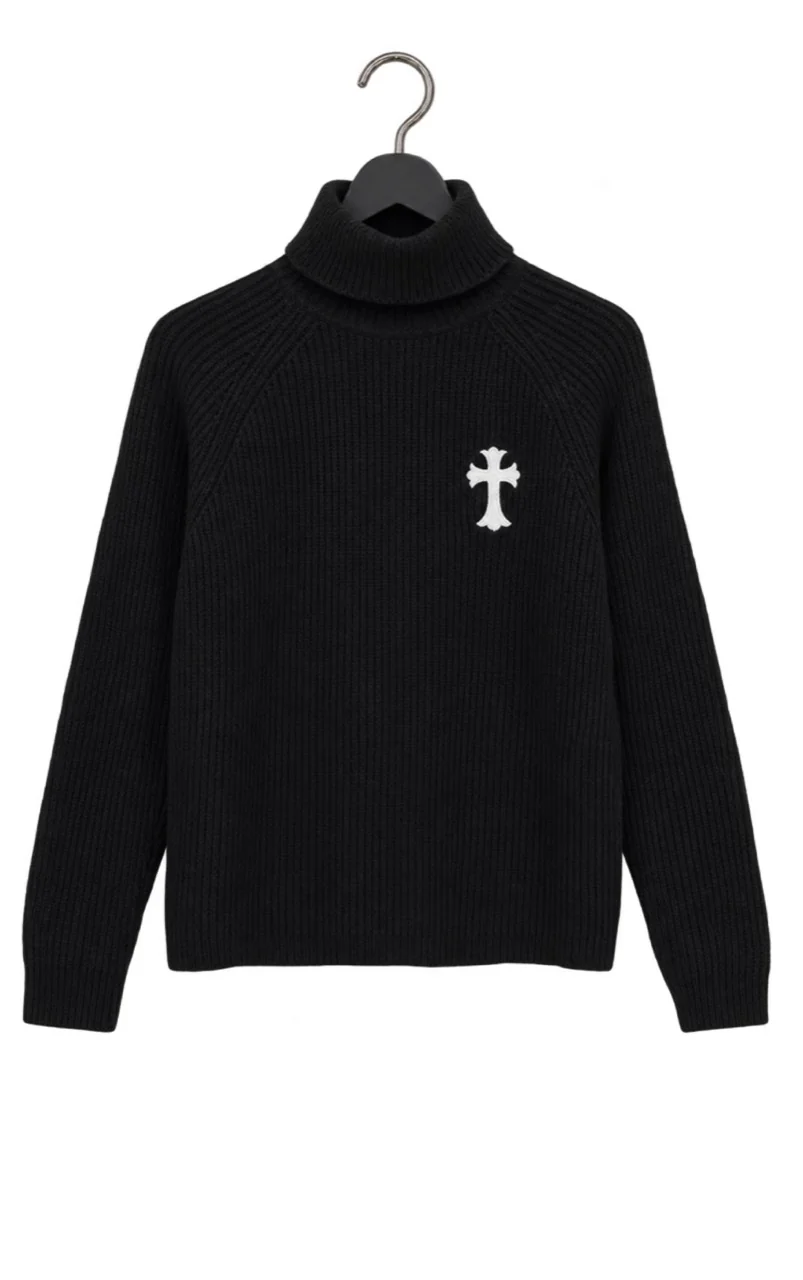
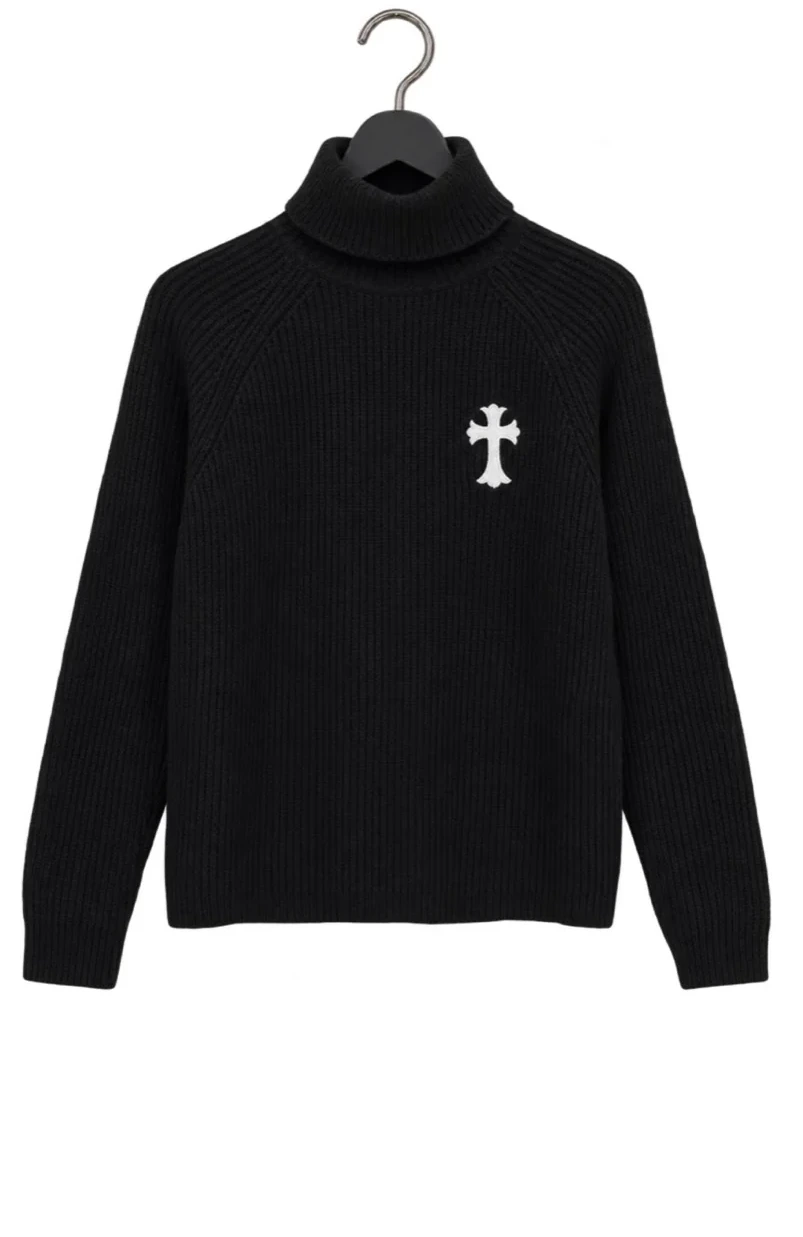
Update men's sales rail prices and rename Blue Paint Splatter -> Biker Jeans
- Add slashed oldPrice to Grey Jeans, Black Palm Trees Jeans, Light Blue
  Ripped Jeans, Biker Jeans (renamed), Bymarccc Red Sweatpants (men+women),
  World Is Yours T-Shirt, Bymarccc Logo Turtleneck, Plain Black Turtleneck
- Bymarccc Paris Jacket: 200->250 RON, oldPrice 700
- Star Denim Jacket: oldPrice corrected 500->700
- Light Blue Ripped Jeans: duplicated across sizes 36/38/40/42/44/46
- Fix Plain Black Turtleneck / Embroidered Cross Sweater hanging oversized
  and off the rope: their source photos had ~4% more top padding than the
  rest of the rail's convention; cropped to match and adjusted scale/ratios

Claude-Session: https://claude.ai/code/session_01S9cKy5g1AwDjzfqRU8tU8k

diff --git a/assets/women-sale-rail.js b/assets/women-sale-rail.js
@@ -3,7 +3,7 @@ if(!customElements.get('bym-women-sale-rail'))customElements.define('bym-women-s
  connectedCallback(){if(this._abort&&!this._abort.signal.aborted)return;const host=this,abort=this._abort=new AbortController(),root=this.shadowRoot||this.attachShadow({mode:'open'});root.innerHTML="<style>\n*{box-sizing:border-box}:host{margin:0;background:#fff;color:#171717;font-family:Arial,Helvetica,sans-serif}button{font:inherit;color:inherit;cursor:pointer}button:focus-visible{outline:2px solid #b51d43;outline-offset:5px}header{display:flex;align-items:center;justify-content:space-between;padding:24px 4vw;border-bottom:1px solid #ececec}.brand{font-size:20px;letter-spacing:3px;font-weight:800}.nav{display:flex;gap:25px;font-size:11px;letter-spacing:2px}.nav b{color:#be1d40}.top{text-align:center;padding:26px 20px 10px}.eyebrow{font-size:10px;letter-spacing:3px}.top h1{font-size:clamp(32px,4.5vw,66px);font-weight:400;letter-spacing:-2px;margin:16px 0}.top p{color:#777;font-size:12px;line-height:1.7;margin:0}.stage{position:relative;width:100%;height:550px;overflow:hidden;touch-action:pan-y;cursor:grab;isolation:isolate}.stage:active{cursor:grabbing}.rail{position:absolute;inset:0;width:100%;height:100%;pointer-events:none;z-index:1}.garment{position:absolute;left:0;top:0;background:none;border:0;padding:0;pointer-events:none;transform-origin:50% 2.5%;will-change:transform;mix-blend-mode:multiply;isolation:isolate}.garment img{position:absolute;inset:0;width:100%;height:100%;object-fit:contain;object-position:center top;pointer-events:none;user-select:none}.garment .back{opacity:0}.garment .tag{position:absolute;top:11%;left:50%;background:#fff;padding:2px 4px;font-size:8px;line-height:1.15;letter-spacing:.3px;border:1px solid #ddd;border-radius:4px;box-shadow:0 1px 2px #0001;white-space:nowrap;transform:translateX(-50%) rotate(-4deg)}.garment.active .tag{border-color:#222}.status{text-align:center;min-height:66px;padding:0 20px}.show-details{border:0;background:none;text-decoration:underline;font-size:10px;padding:7px 14px}.status strong{font-size:12px;font-weight:400;letter-spacing:1px}.price-old{color:#999;font-size:.8em;font-weight:400;margin-right:10px}.status p{font-size:16px;color:#171717;letter-spacing:1px;margin:10px 0;font-weight:600}.controls{display:flex;justify-content:center;gap:12px;margin:12px auto 32px}.controls button{border:1px solid #ddd;background:white;border-radius:50%;width:38px;height:38px}.controls button.pause{border-radius:25px;width:90px;font-size:10px;letter-spacing:1px}.bottom{margin:0 4vw;padding:22px 0;border-top:1px solid #eee;display:flex;justify-content:space-between;font-size:9px;letter-spacing:1px;color:#888}.note{text-align:center;font-size:10px;color:#aaa;padding:5px 20px 22px;line-height:1.6}dialog{border:0;background:white;width:min(880px,94vw);padding:20px;max-height:90vh;overflow:auto;box-shadow:0 20px 100px #0003}dialog::backdrop{background:#0005;backdrop-filter:blur(4px)}.close{position:absolute;right:16px;top:14px;border:0;background:white;font-size:22px;z-index:2}.detail{display:grid;grid-template-columns:1.1fr 1fr;align-items:center;gap:25px}.detail .picture{height:520px;width:100%;object-fit:contain}.detail h2{font-weight:400;font-size:27px;letter-spacing:-1px}.detail p{font-size:12px;color:#888;line-height:1.8}.detail .views{display:flex;gap:8px}.views button{border:1px solid #ddd;background:white;padding:10px;font-size:11px}.views button[aria-pressed=true]{border-color:#222}.detail .soon{margin-top:25px;padding:14px 0;border-top:1px solid #eee;font-size:11px}.thumbs{display:flex;justify-content:center;gap:8px;margin:10px auto 20px}.thumbs button{width:6px;height:6px;border:0;border-radius:50%;background:#ddd;padding:0}.thumbs button[aria-current=true]{background:#222;width:18px;border-radius:5px}@media(max-width:600px){header{padding:20px}.brand{font-size:16px}.nav{gap:12px;font-size:9px}.top{padding-top:24px}.top h1{letter-spacing:-1px}.stage{height:340px}.detail{grid-template-columns:1fr;gap:0}.detail .picture{height:42vh}.detail h2{font-size:22px}.detail p{margin:5px 0}.detail .soon{margin-top:15px}.bottom{font-size:8px;gap:15px}.top p{font-size:11px}.detail .eyebrow{margin-top:15px}}@media(prefers-reduced-motion:reduce){*{scroll-behavior:auto!important}}\n\n:host{display:block;width:100%;font-family:Arial,Helvetica,sans-serif}.product-name{display:block;margin:auto;border:0;border-bottom:1px solid currentColor;padding:0 0 5px;background:none;font-size:12px;letter-spacing:1px}.add-to-cart{display:block;margin:15px auto 6px;padding:12px 28px;border:1px solid #171717;background:#171717;color:#fff;font-size:11px;letter-spacing:1px}.cart-message{min-height:18px;text-align:center;font-size:11px;margin:5px}.status p{margin:10px 0}.top{padding-top:8px}.thumbs{padding:0 15px;flex-wrap:wrap}.detail .picture{cursor:pointer}.detail .soon{color:#171717}.close{width:38px;height:38px;border:1px solid #171717}.detail .eyebrow{letter-spacing:2px}.detail .add-to-cart{margin-left:0}@media(min-width:900px){.top{padding:6px 20px 4px}.garment .tag{top:9.2%;font-size:9.6px;padding:4.8px 8.4px}.status{min-height:0}.status .cart-message{min-height:0;margin:3px}.status .cart-message:empty{display:none}.thumbs{margin:12px auto 12px}}\n</style><main><div class=\"top\"><span class=\"eyebrow\">LAST PIECES / LIMITED STOCK</span></div><div class=\"stage\" aria-label=\"Sale collection on hangers\"><svg class=\"rail\" aria-hidden=\"true\"><defs><linearGradient id=\"steel\" x2=\"0\" y2=\"1\"><stop stop-color=\"#b5b5b5\"/><stop offset=\".4\" stop-color=\"#777\"/><stop offset=\"1\" stop-color=\"#aaa\"/></linearGradient></defs><path id=\"line\" fill=\"none\" stroke=\"url(#steel)\" stroke-width=\"7\"/></svg></div><div class=\"status\" aria-live=\"polite\"><button class=\"product-name\" type=\"button\" aria-label=\"View product details\"></button><p></p><button class=\"add-to-cart\" type=\"button\">ADD TO CART</button><div class=\"cart-message\" role=\"status\"></div></div><div class=\"thumbs\"></div></main><dialog><button class=\"close\" aria-label=\"Close\">\u00d7</button><div class=\"detail\"><img class=\"picture\" alt=\"\"><div><span class=\"eyebrow\"></span><h2></h2><div class=\"views\"></div><p class=\"soon\"></p><button class=\"add-to-cart\" type=\"button\">ADD TO CART</button><div class=\"cart-message\" role=\"status\"></div></div></div></dialog>";
  const listenWindow=(type,fn,options={})=>window.addEventListener(type,fn,{...options,signal:abort.signal});
 
-const womenProducts=[{"name": "HOT GIRLS BABY TOP WHITE", "images": ["/assets/img/women-sale-rail/piece-112.webp", "/assets/img/women-sale-rail/piece-107.webp"], "size": "XS\u2013S", "price": "150 RON", "oldPrice": "250 RON", "scale": 0.58, "ratios": [0.8764241893076249, 0.7703125], "cartId": "shopify:archive-hot-girls-baby-top-white-xs-s", "salePrice": 150}, {"name": "HOT GIRLS BABY TOP BLACK", "images": ["/assets/img/women-sale-rail/piece-113.webp", "/assets/img/women-sale-rail/piece-108.webp"], "size": "XS\u2013S", "price": "150 RON", "oldPrice": "250 RON", "scale": 0.58, "ratios": [0.8764241893076249, 0.7703125], "cartId": "shopify:archive-hot-girls-baby-top-black-xs-s", "salePrice": 150}, {"name": "BYMARCCC ART JACKET", "images": ["/assets/img/women-sale-rail/piece-99.webp", "/assets/img/women-sale-rail/piece-93.webp", "/assets/img/women-sale-rail/piece-94.webp"], "size": "S", "price": "500 RON", "oldPrice": "1500 RON", "scale": 0.72, "ratios": [1.1037527593818985, 0.66171875, 1.1037527593818985], "cartId": "shopify:archive-bymarccc-art-jacket-s", "salePrice": 500}, {"name": "BYMARCCC DENIM CORSET", "images": ["/assets/img/women-sale-rail/piece-81.webp", "/assets/img/women-sale-rail/piece-80.webp"], "size": "S", "price": "150 RON", "oldPrice": "350 RON", "scale": 0.58, "ratios": [0.75, 0.66640625], "cartId": "shopify:archive-bymarccc-denim-corset-s", "salePrice": 150}, {"name": "DELULU TURTLENECK", "images": ["/assets/img/women-sale-rail/piece-90.webp", "/assets/img/women-sale-rail/piece-89.webp"], "size": "M L", "price": "150 RON", "oldPrice": "400 RON", "scale": 0.72, "ratios": [0.75, 0.66640625], "cartId": "shopify:archive-delulu-turtleneck-m-l", "salePrice": 150}, {"name": "BYMARCCC PURPLE SWEATPANTS", "images": ["/assets/img/women-sale-rail/piece-103.webp", "/assets/img/women-sale-rail/piece-104.webp"], "size": "S", "price": "150 RON", "oldPrice": null, "scale": 1, "ratios": [0.66640625, 0.66640625], "cartId": "shopify:archive-bymarccc-purple-sweatpants-s", "salePrice": 150}, {"name": "WALKING ART BLACK", "images": ["/assets/img/women-sale-rail/piece-83.webp", "/assets/img/women-sale-rail/piece-84.webp"], "size": "34", "price": "200 RON", "oldPrice": "400 RON", "scale": 1, "ratios": [0.8, 0.8], "cartId": "shopify:archive-walking-art-black-34", "salePrice": 200}, {"name": "WALKING ART BLACK", "images": ["/assets/img/women-sale-rail/piece-83.webp", "/assets/img/women-sale-rail/piece-84.webp"], "size": "36", "price": "200 RON", "oldPrice": "400 RON", "scale": 1, "ratios": [0.8, 0.8], "cartId": "shopify:archive-walking-art-black-36", "salePrice": 200}, {"name": "WALKING ART BLUE", "images": ["/assets/img/women-sale-rail/piece-85.webp", "/assets/img/women-sale-rail/piece-86.webp"], "size": "38", "price": "200 RON", "oldPrice": "400 RON", "scale": 1, "ratios": [0.8, 0.8], "cartId": "shopify:archive-walking-art-blue-38", "salePrice": 200}, {"name": "TRANSPARENT JEAN", "images": ["/assets/img/women-sale-rail/piece-114.webp", "/assets/img/women-sale-rail/piece-115.webp"], "size": "38", "price": "200 RON", "oldPrice": "500 RON", "scale": 1, "ratios": [0.66796875, 0.66640625], "cartId": "shopify:archive-transparent-jean-38", "salePrice": 200}, {"name": "HOT GIRLS GREY", "images": ["/assets/img/women-sale-rail/piece-5.webp", "/assets/img/women-sale-rail/piece-6.webp"], "size": "34", "price": "150 RON", "oldPrice": "400 RON", "scale": 1, "ratios": [0.66640625, 0.66640625], "cartId": "shopify:archive-hot-girls-grey-34", "salePrice": 150}, {"name": "HOT GIRLS BLUE", "images": ["/assets/img/women-sale-rail/piece-8.webp", "/assets/img/women-sale-rail/piece-7.webp"], "size": "36", "price": "150 RON", "oldPrice": "400 RON", "scale": 1, "ratios": [0.66640625, 0.66640625], "cartId": "shopify:archive-hot-girls-blue-36", "salePrice": 150}, {"name": "NOT FROM PARIS", "images": ["/assets/img/women-sale-rail/piece-42.webp", "/assets/img/women-sale-rail/piece-44.webp"], "size": "36", "price": "150 RON", "oldPrice": "400 RON", "scale": 1, "ratios": [0.8, 0.8], "cartId": "shopify:archive-not-from-paris-36", "salePrice": 150}, {"name": "NOT FROM PARIS SHORTS", "images": ["/assets/img/women-sale-rail/piece-95.webp", "/assets/img/women-sale-rail/piece-96.webp"], "size": "36", "price": "150 RON", "oldPrice": "400 RON", "scale": 0.7, "ratios": [0.77109375, 0.77109375], "cartId": "shopify:archive-not-from-paris-shorts-36", "salePrice": 150}, {"name": "JUICY JEANS", "images": ["/assets/img/women-sale-rail/piece-47.webp", "/assets/img/women-sale-rail/piece-82.webp"], "size": "40", "price": "150 RON", "oldPrice": "400 RON", "scale": 1, "ratios": [0.7942811755361397, 0.66640625], "cartId": "shopify:archive-juicy-jeans-40", "salePrice": 150}, {"name": "TRANSPARENT JEAN", "images": ["/assets/img/women-sale-rail/piece-114.webp", "/assets/img/women-sale-rail/piece-115.webp"], "size": "40", "price": "200 RON", "oldPrice": "500 RON", "scale": 1, "ratios": [0.66796875, 0.66640625], "cartId": "shopify:archive-transparent-jean-40", "salePrice": 200}, {"name": "HANDPRINT JEANS", "images": ["/assets/img/women-sale-rail/piece-46.webp", "/assets/img/women-sale-rail/piece-45.webp"], "size": "42", "price": "150 RON", "oldPrice": "400 RON", "scale": 1, "ratios": [0.8, 0.7987220447284346], "cartId": "shopify:archive-handprint-jeans-42", "salePrice": 150}, {"name": "BYMARCCC CROSS JEANS", "images": ["/assets/img/women-sale-rail/piece-102.webp", "/assets/img/women-sale-rail/piece-50.webp"], "size": "42", "price": "200 RON", "oldPrice": "500 RON", "scale": 1, "ratios": [0.5859375, 0.66640625], "cartId": "shopify:archive-bymarccc-cross-jeans-42", "salePrice": 200}, {"name": "LACE JEANS", "images": ["/assets/img/women-sale-rail/piece-49.webp", "/assets/img/women-sale-rail/piece-97.webp"], "size": "44", "price": "200 RON", "oldPrice": "500 RON", "scale": 1, "ratios": [0.66640625, 0.66640625], "cartId": "shopify:archive-lace-jeans-44", "salePrice": 200}, {"name": "DELULU OVERCOAT", "images": ["/assets/img/women-sale-rail/piece-110.webp", "/assets/img/women-sale-rail/piece-109.webp", "/assets/img/women-sale-rail/piece-111.webp"], "size": "S\u2013M", "price": "250 RON", "oldPrice": "700 RON", "scale": 0.9, "ratios": [0.7671875, 0.6609375, 0.7671875], "cartId": "shopify:archive-delulu-overcoat-s-m", "salePrice": 250}, {"name": "ARTWORK PANTS", "images": ["/assets/img/women-sale-rail/men-artwork-pants-front.webp?v=21", "/assets/img/women-sale-rail/men-artwork-pants-angle.webp?v=21"], "size": "S", "price": "150 RON", "oldPrice": "450 RON", "scale": 1, "ratios": [0.62734375, 0.62734375], "cartId": "shopify:archive-men-artwork-pants", "salePrice": 150, "sideAngle": 42}, {"name": "RED CROSS T-SHIRT", "images": ["/assets/img/women-sale-rail/piece-91.webp", "/assets/img/women-sale-rail/piece-92.webp"], "size": "L", "price": "100 RON", "oldPrice": "250 RON", "scale": 0.72, "ratios": [0.75, 0.66640625], "cartId": "shopify:archive-red-cross-t-shirt-l", "salePrice": 100}, {"name": "NOT FROM PARIS POLO", "images": ["/assets/img/women-sale-rail/piece-79.webp", "/assets/img/women-sale-rail/piece-78.webp"], "size": "M", "price": "150 RON", "oldPrice": "250 RON", "scale": 0.7, "ratios": [0.75, 0.66640625], "cartId": "shopify:archive-not-from-paris-polo-m", "salePrice": 150}, {"name": "BYMARCCC PURPLE HOODIE", "images": ["/assets/img/women-sale-rail/piece-88.webp", "/assets/img/women-sale-rail/piece-87.webp", "/assets/img/women-sale-rail/piece-98.webp"], "size": "S", "price": "150 RON", "oldPrice": "500 RON", "scale": 0.72, "ratios": [0.75, 0.66640625, 0.75], "cartId": "shopify:archive-bymarccc-purple-hoodie-s-m", "salePrice": 150}, {"name": "BYMARCCC RED SWEATPANTS", "images": ["/assets/img/women-sale-rail/piece-105.webp", "/assets/img/women-sale-rail/piece-106.webp"], "size": "S", "price": "150 RON", "oldPrice": null, "scale": 1, "ratios": [0.66640625, 0.66640625], "cartId": "shopify:archive-bymarccc-red-sweatpants-s", "salePrice": 150}, {"name": "PAINTED PANTS", "images": ["/assets/img/women-sale-rail/men-painted-pants-front.webp", "/assets/img/women-sale-rail/men-painted-pants-angle.webp"], "size": "M", "price": "150 RON", "oldPrice": "400 RON", "scale": 1, "ratios": [0.62734375, 0.62734375], "cartId": "shopify:archive-men-painted-pants", "salePrice": 150, "fit": "(Fits 170\u2013185 cm, 60\u201375 kg)"}, {"name": "PAINTED PANTS", "images": ["/assets/img/women-sale-rail/men-painted-pants-front.webp", "/assets/img/women-sale-rail/men-painted-pants-angle.webp"], "size": "L", "price": "150 RON", "oldPrice": "400 RON", "scale": 1, "ratios": [0.62734375, 0.62734375], "cartId": "shopify:archive-men-painted-pants", "salePrice": 150, "fit": "(Fits 175\u2013190 cm, 75\u201385 kg)"}, {"name": "PAINTED SWEATPANTS", "images": ["/assets/img/women-sale-rail/piece-10.webp", "/assets/img/women-sale-rail/piece-9.webp"], "size": "L", "price": "200 RON", "oldPrice": "400 RON", "scale": 1, "ratios": [0.66640625, 0.66640625], "cartId": "shopify:archive-painted-sweatpants-l", "salePrice": 200}];
+const womenProducts=[{"name": "HOT GIRLS BABY TOP WHITE", "images": ["/assets/img/women-sale-rail/piece-112.webp", "/assets/img/women-sale-rail/piece-107.webp"], "size": "XS\u2013S", "price": "150 RON", "oldPrice": "250 RON", "scale": 0.58, "ratios": [0.8764241893076249, 0.7703125], "cartId": "shopify:archive-hot-girls-baby-top-white-xs-s", "salePrice": 150}, {"name": "HOT GIRLS BABY TOP BLACK", "images": ["/assets/img/women-sale-rail/piece-113.webp", "/assets/img/women-sale-rail/piece-108.webp"], "size": "XS\u2013S", "price": "150 RON", "oldPrice": "250 RON", "scale": 0.58, "ratios": [0.8764241893076249, 0.7703125], "cartId": "shopify:archive-hot-girls-baby-top-black-xs-s", "salePrice": 150}, {"name": "BYMARCCC ART JACKET", "images": ["/assets/img/women-sale-rail/piece-99.webp", "/assets/img/women-sale-rail/piece-93.webp", "/assets/img/women-sale-rail/piece-94.webp"], "size": "S", "price": "500 RON", "oldPrice": "1500 RON", "scale": 0.72, "ratios": [1.1037527593818985, 0.66171875, 1.1037527593818985], "cartId": "shopify:archive-bymarccc-art-jacket-s", "salePrice": 500}, {"name": "BYMARCCC DENIM CORSET", "images": ["/assets/img/women-sale-rail/piece-81.webp", "/assets/img/women-sale-rail/piece-80.webp"], "size": "S", "price": "150 RON", "oldPrice": "350 RON", "scale": 0.58, "ratios": [0.75, 0.66640625], "cartId": "shopify:archive-bymarccc-denim-corset-s", "salePrice": 150}, {"name": "DELULU TURTLENECK", "images": ["/assets/img/women-sale-rail/piece-90.webp", "/assets/img/women-sale-rail/piece-89.webp"], "size": "M L", "price": "150 RON", "oldPrice": "400 RON", "scale": 0.72, "ratios": [0.75, 0.66640625], "cartId": "shopify:archive-delulu-turtleneck-m-l", "salePrice": 150}, {"name": "BYMARCCC PURPLE SWEATPANTS", "images": ["/assets/img/women-sale-rail/piece-103.webp", "/assets/img/women-sale-rail/piece-104.webp"], "size": "S", "price": "150 RON", "oldPrice": null, "scale": 1, "ratios": [0.66640625, 0.66640625], "cartId": "shopify:archive-bymarccc-purple-sweatpants-s", "salePrice": 150}, {"name": "WALKING ART BLACK", "images": ["/assets/img/women-sale-rail/piece-83.webp", "/assets/img/women-sale-rail/piece-84.webp"], "size": "34", "price": "200 RON", "oldPrice": "400 RON", "scale": 1, "ratios": [0.8, 0.8], "cartId": "shopify:archive-walking-art-black-34", "salePrice": 200}, {"name": "WALKING ART BLACK", "images": ["/assets/img/women-sale-rail/piece-83.webp", "/assets/img/women-sale-rail/piece-84.webp"], "size": "36", "price": "200 RON", "oldPrice": "400 RON", "scale": 1, "ratios": [0.8, 0.8], "cartId": "shopify:archive-walking-art-black-36", "salePrice": 200}, {"name": "WALKING ART BLUE", "images": ["/assets/img/women-sale-rail/piece-85.webp", "/assets/img/women-sale-rail/piece-86.webp"], "size": "38", "price": "200 RON", "oldPrice": "400 RON", "scale": 1, "ratios": [0.8, 0.8], "cartId": "shopify:archive-walking-art-blue-38", "salePrice": 200}, {"name": "TRANSPARENT JEAN", "images": ["/assets/img/women-sale-rail/piece-114.webp", "/assets/img/women-sale-rail/piece-115.webp"], "size": "38", "price": "200 RON", "oldPrice": "500 RON", "scale": 1, "ratios": [0.66796875, 0.66640625], "cartId": "shopify:archive-transparent-jean-38", "salePrice": 200}, {"name": "HOT GIRLS GREY", "images": ["/assets/img/women-sale-rail/piece-5.webp", "/assets/img/women-sale-rail/piece-6.webp"], "size": "34", "price": "150 RON", "oldPrice": "400 RON", "scale": 1, "ratios": [0.66640625, 0.66640625], "cartId": "shopify:archive-hot-girls-grey-34", "salePrice": 150}, {"name": "HOT GIRLS BLUE", "images": ["/assets/img/women-sale-rail/piece-8.webp", "/assets/img/women-sale-rail/piece-7.webp"], "size": "36", "price": "150 RON", "oldPrice": "400 RON", "scale": 1, "ratios": [0.66640625, 0.66640625], "cartId": "shopify:archive-hot-girls-blue-36", "salePrice": 150}, {"name": "NOT FROM PARIS", "images": ["/assets/img/women-sale-rail/piece-42.webp", "/assets/img/women-sale-rail/piece-44.webp"], "size": "36", "price": "150 RON", "oldPrice": "400 RON", "scale": 1, "ratios": [0.8, 0.8], "cartId": "shopify:archive-not-from-paris-36", "salePrice": 150}, {"name": "NOT FROM PARIS SHORTS", "images": ["/assets/img/women-sale-rail/piece-95.webp", "/assets/img/women-sale-rail/piece-96.webp"], "size": "36", "price": "150 RON", "oldPrice": "400 RON", "scale": 0.7, "ratios": [0.77109375, 0.77109375], "cartId": "shopify:archive-not-from-paris-shorts-36", "salePrice": 150}, {"name": "JUICY JEANS", "images": ["/assets/img/women-sale-rail/piece-47.webp", "/assets/img/women-sale-rail/piece-82.webp"], "size": "40", "price": "150 RON", "oldPrice": "400 RON", "scale": 1, "ratios": [0.7942811755361397, 0.66640625], "cartId": "shopify:archive-juicy-jeans-40", "salePrice": 150}, {"name": "TRANSPARENT JEAN", "images": ["/assets/img/women-sale-rail/piece-114.webp", "/assets/img/women-sale-rail/piece-115.webp"], "size": "40", "price": "200 RON", "oldPrice": "500 RON", "scale": 1, "ratios": [0.66796875, 0.66640625], "cartId": "shopify:archive-transparent-jean-40", "salePrice": 200}, {"name": "HANDPRINT JEANS", "images": ["/assets/img/women-sale-rail/piece-46.webp", "/assets/img/women-sale-rail/piece-45.webp"], "size": "42", "price": "150 RON", "oldPrice": "400 RON", "scale": 1, "ratios": [0.8, 0.7987220447284346], "cartId": "shopify:archive-handprint-jeans-42", "salePrice": 150}, {"name": "BYMARCCC CROSS JEANS", "images": ["/assets/img/women-sale-rail/piece-102.webp", "/assets/img/women-sale-rail/piece-50.webp"], "size": "42", "price": "200 RON", "oldPrice": "500 RON", "scale": 1, "ratios": [0.5859375, 0.66640625], "cartId": "shopify:archive-bymarccc-cross-jeans-42", "salePrice": 200}, {"name": "LACE JEANS", "images": ["/assets/img/women-sale-rail/piece-49.webp", "/assets/img/women-sale-rail/piece-97.webp"], "size": "44", "price": "200 RON", "oldPrice": "500 RON", "scale": 1, "ratios": [0.66640625, 0.66640625], "cartId": "shopify:archive-lace-jeans-44", "salePrice": 200}, {"name": "DELULU OVERCOAT", "images": ["/assets/img/women-sale-rail/piece-110.webp", "/assets/img/women-sale-rail/piece-109.webp", "/assets/img/women-sale-rail/piece-111.webp"], "size": "S\u2013M", "price": "250 RON", "oldPrice": "700 RON", "scale": 0.9, "ratios": [0.7671875, 0.6609375, 0.7671875], "cartId": "shopify:archive-delulu-overcoat-s-m", "salePrice": 250}, {"name": "ARTWORK PANTS", "images": ["/assets/img/women-sale-rail/men-artwork-pants-front.webp?v=21", "/assets/img/women-sale-rail/men-artwork-pants-angle.webp?v=21"], "size": "S", "price": "150 RON", "oldPrice": "450 RON", "scale": 1, "ratios": [0.62734375, 0.62734375], "cartId": "shopify:archive-men-artwork-pants", "salePrice": 150, "sideAngle": 42}, {"name": "RED CROSS T-SHIRT", "images": ["/assets/img/women-sale-rail/piece-91.webp", "/assets/img/women-sale-rail/piece-92.webp"], "size": "L", "price": "100 RON", "oldPrice": "250 RON", "scale": 0.72, "ratios": [0.75, 0.66640625], "cartId": "shopify:archive-red-cross-t-shirt-l", "salePrice": 100}, {"name": "NOT FROM PARIS POLO", "images": ["/assets/img/women-sale-rail/piece-79.webp", "/assets/img/women-sale-rail/piece-78.webp"], "size": "M", "price": "150 RON", "oldPrice": "250 RON", "scale": 0.7, "ratios": [0.75, 0.66640625], "cartId": "shopify:archive-not-from-paris-polo-m", "salePrice": 150}, {"name": "BYMARCCC PURPLE HOODIE", "images": ["/assets/img/women-sale-rail/piece-88.webp", "/assets/img/women-sale-rail/piece-87.webp", "/assets/img/women-sale-rail/piece-98.webp"], "size": "S", "price": "150 RON", "oldPrice": "500 RON", "scale": 0.72, "ratios": [0.75, 0.66640625, 0.75], "cartId": "shopify:archive-bymarccc-purple-hoodie-s-m", "salePrice": 150}, {"name": "BYMARCCC RED SWEATPANTS", "images": ["/assets/img/women-sale-rail/piece-105.webp", "/assets/img/women-sale-rail/piece-106.webp"], "size": "S", "price": "150 RON", "oldPrice": "400 RON", "scale": 1, "ratios": [0.66640625, 0.66640625], "cartId": "shopify:archive-bymarccc-red-sweatpants-s", "salePrice": 150}, {"name": "PAINTED PANTS", "images": ["/assets/img/women-sale-rail/men-painted-pants-front.webp", "/assets/img/women-sale-rail/men-painted-pants-angle.webp"], "size": "M", "price": "150 RON", "oldPrice": "400 RON", "scale": 1, "ratios": [0.62734375, 0.62734375], "cartId": "shopify:archive-men-painted-pants", "salePrice": 150, "fit": "(Fits 170\u2013185 cm, 60\u201375 kg)"}, {"name": "PAINTED PANTS", "images": ["/assets/img/women-sale-rail/men-painted-pants-front.webp", "/assets/img/women-sale-rail/men-painted-pants-angle.webp"], "size": "L", "price": "150 RON", "oldPrice": "400 RON", "scale": 1, "ratios": [0.62734375, 0.62734375], "cartId": "shopify:archive-men-painted-pants", "salePrice": 150, "fit": "(Fits 175\u2013190 cm, 75\u201385 kg)"}, {"name": "PAINTED SWEATPANTS", "images": ["/assets/img/women-sale-rail/piece-10.webp", "/assets/img/women-sale-rail/piece-9.webp"], "size": "L", "price": "200 RON", "oldPrice": "400 RON", "scale": 1, "ratios": [0.66640625, 0.66640625], "cartId": "shopify:archive-painted-sweatpants-l", "salePrice": 200}];
 const menProducts=[
   {"name": "PAINTED PANTS", "images": ["/assets/img/women-sale-rail/men-painted-pants-front.webp", "/assets/img/women-sale-rail/men-painted-pants-angle.webp"], "size": "M", "price": "150 RON", "oldPrice": "400 RON", "scale": 1, "ratios": [0.62734375, 0.62734375], "cartId": "shopify:archive-men-painted-pants", "salePrice": 150, "fit": "(Fits 170\u2013185 cm, 60\u201375 kg)"},
   {"name": "PAINTED PANTS", "images": ["/assets/img/women-sale-rail/men-painted-pants-front.webp", "/assets/img/women-sale-rail/men-painted-pants-angle.webp"], "size": "L", "price": "150 RON", "oldPrice": "400 RON", "scale": 1, "ratios": [0.62734375, 0.62734375], "cartId": "shopify:archive-men-painted-pants", "salePrice": 150, "fit": "(Fits 175\u2013190 cm, 75\u201385 kg)"},
@@ -17,31 +17,31 @@ const menProducts=[
   {"name": "CARPENTER JEANS", "images": ["/assets/img/women-sale-rail/men-carpenter-jeans-front.webp", "/assets/img/women-sale-rail/men-carpenter-jeans-angle.webp"], "size": "40", "price": "200 RON", "oldPrice": "500 RON", "scale": 1, "ratios": [0.62734375, 0.62734375], "cartId": "shopify:archive-men-carpenter-jeans", "salePrice": 200, "fit": "(Fits 170\u2013180 cm, 55\u201363 kg)"},
   {"name": "DISTRESSED JEANS", "images": ["/assets/img/women-sale-rail/men-distressed-jeans-front.webp", "/assets/img/women-sale-rail/men-distressed-jeans-angle.webp"], "size": "40", "price": "150 RON", "oldPrice": "500 RON", "scale": 1, "ratios": [0.62734375, 0.62734375], "cartId": "shopify:archive-men-distressed-jeans", "salePrice": 150, "fit": "(Fits 170\u2013180 cm, 55\u201363 kg)"},
   {"name": "ART DEPT JEANS", "images": ["/assets/img/women-sale-rail/men-art-dept-jeans-front.webp", "/assets/img/women-sale-rail/men-art-dept-jeans-angle.webp"], "size": "40", "price": "200 RON", "oldPrice": "500 RON", "scale": 1, "ratios": [0.62734375, 0.62734375], "cartId": "bymarccc:sale-art-dept-jeans", "salePrice": 200, "fit": "(Fits 170\u2013180 cm, 55\u201363 kg)"},
-  {"name": "GREY JEANS", "images": ["/assets/img/women-sale-rail/men-grey-jeans-front.webp", "/assets/img/women-sale-rail/men-grey-jeans-angle.webp"], "size": "40", "price": "200 RON", "oldPrice": null, "scale": 1, "ratios": [0.62734375, 0.62734375], "cartId": "shopify:archive-men-grey-jeans", "salePrice": 200},
+  {"name": "GREY JEANS", "images": ["/assets/img/women-sale-rail/men-grey-jeans-front.webp", "/assets/img/women-sale-rail/men-grey-jeans-angle.webp"], "size": "40", "price": "200 RON", "oldPrice": "450 RON", "scale": 1, "ratios": [0.62734375, 0.62734375], "cartId": "shopify:archive-men-grey-jeans", "salePrice": 200},
   {"name": "PINK STRIPED JEANS", "images": ["/assets/img/women-sale-rail/men-pink-striped-jeans-front.webp", "/assets/img/women-sale-rail/men-pink-striped-jeans-angle.webp", "/assets/img/women-sale-rail/men-pink-striped-jeans-back.webp"], "size": "40", "price": "200 RON", "oldPrice": "500 RON", "scale": 1, "ratios": [0.62734375, 0.62734375, 0.62734375], "cartId": "bymarccc:sale-pink-striped-jeans", "salePrice": 200},
   {"name": "CROSS PATCH JEANS", "images": ["/assets/img/women-sale-rail/men-white-cross-jeans-front.webp", "/assets/img/women-sale-rail/men-white-cross-jeans-angle.webp"], "size": "40", "price": "200 RON", "oldPrice": "500 RON", "scale": 1, "ratios": [0.62734375, 0.62734375], "cartId": "bymarccc:sale-cross-patch-jeans", "salePrice": 200},
   {"name": "GLITTER CROSSES RELAXED JEANS", "images": ["/assets/img/women-sale-rail/men-glitter-crosses-jeans-front.webp", "/assets/img/women-sale-rail/men-glitter-crosses-jeans-angle.webp", "/assets/img/women-sale-rail/men-glitter-crosses-jeans-other-angle.webp"], "size": "40", "price": "200 RON", "oldPrice": "500 RON", "scale": 1, "ratios": [0.62734375, 0.62734375, 0.66640625], "cartId": "bymarccc:sale-glitter-crosses-relaxed-jeans", "salePrice": 200, "viewLabels": ["Front", "Side", "Side 2"]},
-  {"name": "BLACK PALM TREES JEANS", "images": ["/assets/img/women-sale-rail/men-black-palm-trees-jeans-front.webp", "/assets/img/women-sale-rail/men-black-palm-trees-jeans-angle.webp", "/assets/img/women-sale-rail/men-black-palm-trees-jeans-back.webp"], "size": "40", "price": "200 RON", "oldPrice": null, "scale": 1, "ratios": [0.62734375, 0.62734375, 0.62734375], "cartId": "shopify:archive-men-black-palm-trees-jeans", "salePrice": 200},
+  {"name": "BLACK PALM TREES JEANS", "images": ["/assets/img/women-sale-rail/men-black-palm-trees-jeans-front.webp", "/assets/img/women-sale-rail/men-black-palm-trees-jeans-angle.webp", "/assets/img/women-sale-rail/men-black-palm-trees-jeans-back.webp"], "size": "40", "price": "200 RON", "oldPrice": "500 RON", "scale": 1, "ratios": [0.62734375, 0.62734375, 0.62734375], "cartId": "shopify:archive-men-black-palm-trees-jeans", "salePrice": 200},
   {"name": "SWAROVSKI JEANS", "images": ["/assets/img/women-sale-rail/men-swarovski-jeans-front.webp", "/assets/img/women-sale-rail/men-swarovski-jeans-angle.webp"], "size": "40", "price": "200 RON", "oldPrice": "500 RON", "scale": 1, "ratios": [0.62734375, 0.62734375], "cartId": "bymarccc:sale-studded-patch-jeans", "salePrice": 200},
   {"name": "STAR JEANS", "images": ["/assets/img/women-sale-rail/men-star-jeans-front.webp", "/assets/img/women-sale-rail/men-star-jeans-angle.webp", "/assets/img/women-sale-rail/men-star-jeans-back.webp"], "size": "40", "price": "200 RON", "oldPrice": "500 RON", "scale": 1, "ratios": [0.62734375, 0.62734375, 0.62734375], "cartId": "bymarccc:sale-star-jeans", "salePrice": 200},
   {"name": "BLUE STRIPED JEANS", "images": ["/assets/img/women-sale-rail/men-blue-striped-jeans-front.webp", "/assets/img/women-sale-rail/men-blue-striped-jeans-angle.webp"], "size": "40", "price": "200 RON", "oldPrice": "500 RON", "scale": 1, "ratios": [0.62734375, 0.62734375], "cartId": "bymarccc:sale-blue-striped-jeans", "salePrice": 200},
   {"name": "PALM TREES JEANS", "images": ["/assets/img/women-sale-rail/men-palm-trees-jeans-front.webp", "/assets/img/women-sale-rail/men-palm-trees-jeans-angle.webp", "/assets/img/women-sale-rail/men-palm-trees-jeans-back.webp"], "size": "40", "price": "200 RON", "oldPrice": "500 RON", "scale": 1, "ratios": [0.62734375, 0.62734375, 0.62734375], "cartId": "bymarccc:sale-palm-tree-jeans", "salePrice": 200},
-  {"name": "LIGHT BLUE RIPPED JEANS", "images": ["/assets/img/women-sale-rail/men-light-blue-ripped-jeans-front.webp", "/assets/img/women-sale-rail/men-light-blue-ripped-jeans-angle.webp", "/assets/img/women-sale-rail/men-light-blue-ripped-jeans-front-alt.webp"], "size": "40", "price": "200 RON", "oldPrice": null, "scale": 1, "ratios": [0.62734375, 0.66640625, 0.66640625], "cartId": "shopify:archive-men-light-blue-ripped-jeans", "salePrice": 200, "viewLabels": ["Front", "Side", "Front 2"]},
-  {"name": "BLUE PAINT SPLATTER JEANS", "images": ["/assets/img/women-sale-rail/men-blue-paint-splatter-jeans-front.webp", "/assets/img/women-sale-rail/men-blue-paint-splatter-jeans-angle.webp"], "size": "40", "price": "200 RON", "oldPrice": null, "scale": 1, "ratios": [0.62734375, 0.62734375], "cartId": "shopify:archive-men-blue-paint-splatter-jeans", "salePrice": 200},
+  {"name": "LIGHT BLUE RIPPED JEANS", "images": ["/assets/img/women-sale-rail/men-light-blue-ripped-jeans-front.webp", "/assets/img/women-sale-rail/men-light-blue-ripped-jeans-angle.webp", "/assets/img/women-sale-rail/men-light-blue-ripped-jeans-front-alt.webp"], "size": "36", "price": "200 RON", "oldPrice": "500 RON", "scale": 1, "ratios": [0.62734375, 0.66640625, 0.66640625], "cartId": "shopify:archive-men-light-blue-ripped-jeans-36", "salePrice": 200, "viewLabels": ["Front", "Side", "Front 2"]}, {"name": "LIGHT BLUE RIPPED JEANS", "images": ["/assets/img/women-sale-rail/men-light-blue-ripped-jeans-front.webp", "/assets/img/women-sale-rail/men-light-blue-ripped-jeans-angle.webp", "/assets/img/women-sale-rail/men-light-blue-ripped-jeans-front-alt.webp"], "size": "38", "price": "200 RON", "oldPrice": "500 RON", "scale": 1, "ratios": [0.62734375, 0.66640625, 0.66640625], "cartId": "shopify:archive-men-light-blue-ripped-jeans-38", "salePrice": 200, "viewLabels": ["Front", "Side", "Front 2"]}, {"name": "LIGHT BLUE RIPPED JEANS", "images": ["/assets/img/women-sale-rail/men-light-blue-ripped-jeans-front.webp", "/assets/img/women-sale-rail/men-light-blue-ripped-jeans-angle.webp", "/assets/img/women-sale-rail/men-light-blue-ripped-jeans-front-alt.webp"], "size": "40", "price": "200 RON", "oldPrice": "500 RON", "scale": 1, "ratios": [0.62734375, 0.66640625, 0.66640625], "cartId": "shopify:archive-men-light-blue-ripped-jeans-40", "salePrice": 200, "viewLabels": ["Front", "Side", "Front 2"]}, {"name": "LIGHT BLUE RIPPED JEANS", "images": ["/assets/img/women-sale-rail/men-light-blue-ripped-jeans-front.webp", "/assets/img/women-sale-rail/men-light-blue-ripped-jeans-angle.webp", "/assets/img/women-sale-rail/men-light-blue-ripped-jeans-front-alt.webp"], "size": "42", "price": "200 RON", "oldPrice": "500 RON", "scale": 1, "ratios": [0.62734375, 0.66640625, 0.66640625], "cartId": "shopify:archive-men-light-blue-ripped-jeans-42", "salePrice": 200, "viewLabels": ["Front", "Side", "Front 2"]}, {"name": "LIGHT BLUE RIPPED JEANS", "images": ["/assets/img/women-sale-rail/men-light-blue-ripped-jeans-front.webp", "/assets/img/women-sale-rail/men-light-blue-ripped-jeans-angle.webp", "/assets/img/women-sale-rail/men-light-blue-ripped-jeans-front-alt.webp"], "size": "44", "price": "200 RON", "oldPrice": "500 RON", "scale": 1, "ratios": [0.62734375, 0.66640625, 0.66640625], "cartId": "shopify:archive-men-light-blue-ripped-jeans-44", "salePrice": 200, "viewLabels": ["Front", "Side", "Front 2"]}, {"name": "LIGHT BLUE RIPPED JEANS", "images": ["/assets/img/women-sale-rail/men-light-blue-ripped-jeans-front.webp", "/assets/img/women-sale-rail/men-light-blue-ripped-jeans-angle.webp", "/assets/img/women-sale-rail/men-light-blue-ripped-jeans-front-alt.webp"], "size": "46", "price": "200 RON", "oldPrice": "500 RON", "scale": 1, "ratios": [0.62734375, 0.66640625, 0.66640625], "cartId": "shopify:archive-men-light-blue-ripped-jeans-46", "salePrice": 200, "viewLabels": ["Front", "Side", "Front 2"]},
+  {"name": "BIKER JEANS", "images": ["/assets/img/women-sale-rail/men-blue-paint-splatter-jeans-front.webp", "/assets/img/women-sale-rail/men-blue-paint-splatter-jeans-angle.webp"], "size": "40", "price": "200 RON", "oldPrice": "600 RON", "scale": 1, "ratios": [0.62734375, 0.62734375], "cartId": "shopify:archive-men-blue-paint-splatter-jeans", "salePrice": 200},
   {"name": "CROSS WAIST PAINTED SWEATPANTS", "images": ["/assets/img/women-sale-rail/men-cross-waist-sweatpants-front.webp", "/assets/img/women-sale-rail/men-cross-waist-sweatpants-angle.webp", "/assets/img/women-sale-rail/men-cross-waist-sweatpants-back.webp"], "size": "S", "price": "150 RON", "oldPrice": null, "scale": 1, "ratios": [0.62734375, 0.62734375, 0.62734375], "cartId": "shopify:archive-men-cross-waist-sweatpants", "salePrice": 150, "fit": "(Fits 170\u2013185 cm, 50\u201364 kg)"},
   {"name": "NOT FROM PARIS SWEATPANTS", "images": ["/assets/img/women-sale-rail/men-not-from-paris-sweatpants-front.webp"], "size": "M", "price": "150 RON", "oldPrice": null, "scale": 1, "ratios": [0.62734375], "cartId": "shopify:archive-men-not-from-paris-sweatpants", "salePrice": 150},
   {"name": "ARTWORK PANTS", "images": ["/assets/img/women-sale-rail/men-artwork-pants-front.webp?v=21", "/assets/img/women-sale-rail/men-artwork-pants-angle.webp?v=21"], "size": "S", "price": "150 RON", "oldPrice": "450 RON", "scale": 1, "ratios": [0.62734375, 0.62734375], "cartId": "shopify:archive-men-artwork-pants", "salePrice": 150, "sideAngle": 42, "fit": "(Fits 167\u2013183 cm, 50\u201364 kg)"},
   {"name": "RED CROSS T-SHIRT", "images": ["/assets/img/women-sale-rail/piece-91.webp", "/assets/img/women-sale-rail/piece-92.webp"], "size": "L", "price": "100 RON", "oldPrice": "250 RON", "scale": 0.72, "ratios": [0.75, 0.66640625], "cartId": "shopify:archive-red-cross-t-shirt-l", "salePrice": 100, "fit": "(Fits 175\u2013188 cm, 64\u201385 kg)"},
   {"name": "NOT FROM PARIS POLO", "images": ["/assets/img/women-sale-rail/piece-79.webp", "/assets/img/women-sale-rail/piece-78.webp"], "size": "M", "price": "150 RON", "oldPrice": "250 RON", "scale": 0.7, "ratios": [0.75, 0.66640625], "cartId": "shopify:archive-not-from-paris-polo-m", "salePrice": 150, "fit": "(Fits 170\u2013185 cm, 60\u201375 kg)"},
   {"name": "BYMARCCC PURPLE HOODIE", "images": ["/assets/img/women-sale-rail/piece-88.webp", "/assets/img/women-sale-rail/piece-87.webp", "/assets/img/women-sale-rail/piece-98.webp"], "size": "S", "price": "150 RON", "oldPrice": "500 RON", "scale": 0.72, "ratios": [0.75, 0.66640625, 0.75], "cartId": "shopify:archive-bymarccc-purple-hoodie-s-m", "salePrice": 150, "fit": "(Fits 170\u2013180 cm, 50\u201360 kg)"},
-  {"name": "BYMARCCC RED SWEATPANTS", "images": ["/assets/img/women-sale-rail/piece-105.webp", "/assets/img/women-sale-rail/piece-106.webp"], "size": "S", "price": "150 RON", "oldPrice": null, "scale": 1, "ratios": [0.66640625, 0.66640625], "cartId": "shopify:archive-bymarccc-red-sweatpants-s", "salePrice": 150, "fit": "(Fits 170\u2013180 cm, 50\u201360 kg)"},
+  {"name": "BYMARCCC RED SWEATPANTS", "images": ["/assets/img/women-sale-rail/piece-105.webp", "/assets/img/women-sale-rail/piece-106.webp"], "size": "S", "price": "150 RON", "oldPrice": "400 RON", "scale": 1, "ratios": [0.66640625, 0.66640625], "cartId": "shopify:archive-bymarccc-red-sweatpants-s", "salePrice": 150, "fit": "(Fits 170\u2013180 cm, 50\u201360 kg)"},
   {"name": "PAINTED SWEATPANTS", "images": ["/assets/img/women-sale-rail/piece-10.webp", "/assets/img/women-sale-rail/piece-9.webp"], "size": "L", "price": "200 RON", "oldPrice": "400 RON", "scale": 1, "ratios": [0.66640625, 0.66640625], "cartId": "shopify:archive-painted-sweatpants-l", "salePrice": 200, "fit": "(Fits 180\u2013190 cm, 75\u201385 kg)"},
-  {"name": "BYMARCCC PARIS JACKET", "images": ["/assets/img/women-sale-rail/men-bymarccc-paris-jacket-front.webp", "/assets/img/women-sale-rail/men-bymarccc-paris-jacket-angle.webp"], "size": "M", "price": "200 RON", "oldPrice": null, "scale": 0.7, "ratios": [1.1015490533562822, 1.1015490533562822], "cartId": "shopify:archive-men-bymarccc-paris-jacket", "salePrice": 200},
-  {"name": "WORLD IS YOURS T-SHIRT", "images": ["/assets/img/women-sale-rail/men-world-is-yours-tshirt-front.webp", "/assets/img/women-sale-rail/men-world-is-yours-tshirt-angle.webp", "/assets/img/women-sale-rail/men-world-is-yours-tshirt-back.webp"], "size": "M", "price": "100 RON", "oldPrice": null, "scale": 0.67, "ratios": [1.1015490533562822, 0.66640625, 1.1015490533562822], "cartId": "shopify:archive-men-world-is-yours-tshirt", "salePrice": 100},
-  {"name": "STAR DENIM JACKET", "images": ["/assets/img/women-sale-rail/men-star-denim-jacket-front.webp", "/assets/img/women-sale-rail/men-star-denim-jacket-angle.webp"], "size": "M", "price": "200 RON", "oldPrice": "500 RON", "scale": 0.7, "ratios": [1.1015490533562822, 1.1015490533562822], "cartId": "bymarccc:sale-star-denim-jacket", "salePrice": 200},
-  {"name": "BYMARCCC LOGO TURTLENECK", "images": ["/assets/img/women-sale-rail/men-logo-turtleneck-front.webp", "/assets/img/women-sale-rail/men-logo-turtleneck-angle.webp"], "size": "M", "price": "150 RON", "oldPrice": null, "scale": 0.69, "ratios": [1.1015490533562822, 1.1015490533562822], "cartId": "shopify:archive-men-logo-turtleneck", "salePrice": 150},
-  {"name": "EMBROIDERED CROSS SWEATER", "images": ["/assets/img/women-sale-rail/men-embroidered-cross-sweater-front.webp", "/assets/img/women-sale-rail/men-embroidered-cross-sweater-angle.webp"], "size": "M", "price": "150 RON", "oldPrice": "400 RON", "scale": 0.88, "ratios": [0.62734375, 0.62734375], "cartId": "bymarccc:embroidered-cross-turtleneck", "salePrice": 150},
-  {"name": "PLAIN BLACK TURTLENECK", "images": ["/assets/img/women-sale-rail/men-plain-black-turtleneck-front.webp", "/assets/img/women-sale-rail/men-plain-black-turtleneck-angle.webp"], "size": "L", "price": "150 RON", "oldPrice": null, "scale": 0.88, "ratios": [0.62734375, 0.62734375], "cartId": "shopify:archive-men-plain-black-turtleneck", "salePrice": 150},
+  {"name": "BYMARCCC PARIS JACKET", "images": ["/assets/img/women-sale-rail/men-bymarccc-paris-jacket-front.webp", "/assets/img/women-sale-rail/men-bymarccc-paris-jacket-angle.webp"], "size": "M", "price": "250 RON", "oldPrice": "700 RON", "scale": 0.7, "ratios": [1.1015490533562822, 1.1015490533562822], "cartId": "shopify:archive-men-bymarccc-paris-jacket", "salePrice": 250},
+  {"name": "WORLD IS YOURS T-SHIRT", "images": ["/assets/img/women-sale-rail/men-world-is-yours-tshirt-front.webp", "/assets/img/women-sale-rail/men-world-is-yours-tshirt-angle.webp", "/assets/img/women-sale-rail/men-world-is-yours-tshirt-back.webp"], "size": "M", "price": "100 RON", "oldPrice": "250 RON", "scale": 0.67, "ratios": [1.1015490533562822, 0.66640625, 1.1015490533562822], "cartId": "shopify:archive-men-world-is-yours-tshirt", "salePrice": 100},
+  {"name": "STAR DENIM JACKET", "images": ["/assets/img/women-sale-rail/men-star-denim-jacket-front.webp", "/assets/img/women-sale-rail/men-star-denim-jacket-angle.webp"], "size": "M", "price": "200 RON", "oldPrice": "700 RON", "scale": 0.7, "ratios": [1.1015490533562822, 1.1015490533562822], "cartId": "bymarccc:sale-star-denim-jacket", "salePrice": 200},
+  {"name": "BYMARCCC LOGO TURTLENECK", "images": ["/assets/img/women-sale-rail/men-logo-turtleneck-front.webp", "/assets/img/women-sale-rail/men-logo-turtleneck-angle.webp"], "size": "M", "price": "150 RON", "oldPrice": "300 RON", "scale": 0.69, "ratios": [1.1015490533562822, 1.1015490533562822], "cartId": "shopify:archive-men-logo-turtleneck", "salePrice": 150},
+  {"name": "EMBROIDERED CROSS SWEATER", "images": ["/assets/img/women-sale-rail/men-embroidered-cross-sweater-front.webp", "/assets/img/women-sale-rail/men-embroidered-cross-sweater-angle.webp"], "size": "M", "price": "150 RON", "oldPrice": "400 RON", "scale": 0.78, "ratios": [0.64915117, 0.64915117], "cartId": "bymarccc:embroidered-cross-turtleneck", "salePrice": 150},
+  {"name": "PLAIN BLACK TURTLENECK", "images": ["/assets/img/women-sale-rail/men-plain-black-turtleneck-front.webp", "/assets/img/women-sale-rail/men-plain-black-turtleneck-angle.webp"], "size": "L", "price": "150 RON", "oldPrice": "400 RON", "scale": 0.78, "ratios": [0.64915117, 0.64915117], "cartId": "shopify:archive-men-plain-black-turtleneck", "salePrice": 150},
 ];
 const products=host.dataset.gender==='men'?menProducts:womenProducts;
 const stage=root.querySelector('.stage'),line=root.querySelector('#line'),status=root.querySelector('.product-name'),dots=root.querySelector('.thumbs'),dlg=root.querySelector('dialog'),media=matchMedia('(prefers-reduced-motion: reduce)');
